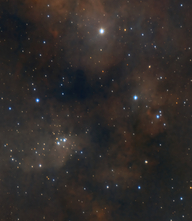
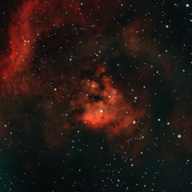
Question Mark

diff --git a/Stories/Astropedia.md b/Stories/Astropedia.md
@@ -55,6 +55,8 @@
 | <img src='..//Stories//Pics/Ghost_Of_Cassiopeia_Nebula.jpg'> |Sh 2-185 is an H II region centered on the massive star system Gamma Cassiopeiae (γ Cas) in the northern constellation of Cassiopeia. It was included in the second Catalogue of H II Regions, published in 1959 by Stewart Sharpless.[3] Sh 2-185 is located at a distance of approximately 10,500 ly (3.23 kpc) from the Sun.[2] The region is surrounded by a dust shell,[4] and displays several infrared point sources that are a characteristics of young stellar objects.[5] This H II region includes the reflection and emission nebulae IC 59 and IC 63.[4] Both nebulae have a cometary shape, with IC 63 being the brighter of the two.[6] The difference in appearance between the two nebulae is a consequence of their physical distance from γ Cas. IC 63 displays a well-defined ionization front, while this is lacking in IC 59.[5] The nebulae are the closest photodissociation regions to the Sun.[6] |
 | [Heart Nebula](..//Stories//Heart_Nebula.md)  |	|
 | <img src='..//Stories//Pics/Heart_Nebula.jpg'> |The Heart Nebula (also known as the Running Dog Nebula, Sharpless 2-190) is an emission nebula, 7500 light years away from Earth and located in the Perseus Arm of the Galaxy in the constellation Cassiopeia. It was discovered by William Herschel on 3 November 1787. It displays glowing ionized hydrogen gas and darker dust lanes. The brightest part of the nebula (a knot at its western edge) is separately classified as NGC 896, because it was the first part of the nebula to be discovered. The nebula's intense red output and its morphology are driven by the radiation emanating from a small group of stars near the nebula's center. This open cluster of stars, known as Collinder 26, Melotte 15, or IC 1805, contains a few bright stars nearly 50 times the mass of the Sun, and many more dim stars that are only a fraction of the Sun's mass. The Heart Nebula is also made up of ionised oxygen and sulfur gasses, responsible for the rich blue and orange colours seen in narrowband images. The shape of the nebula is driven by stellar winds from the hot stars in its core. The nebula also spans almost 2 degrees in the sky, covering an area four times that of the diameter of the full moon. |
+| [Heart Soul Nebula](..//Stories//Heart_Soul_Nebula.md)  |	|
+| <img src='..//Stories//Pics/Heart_Soul_Nebula.jpg'> |This is a composition of two other nebulae [Heart Nebula](./Heart_Nebula.md) and [Soul Nebula](./Soul_Nebula.md)  |
 | [Helix Nebula](..//Stories//Helix_Nebula.md)  |	|
 | <img src='..//Stories//Pics/Helix_Nebula.jpg'> |The Helix Nebula (also known as NGC 7293 or Caldwell 63) is a planetary nebula (PN) located in the constellation Aquarius. Discovered by Karl Ludwig Harding, most likely before 1824, this object is one of the closest of all the bright planetary nebulae to Earth. The distance, measured by the Gaia mission, is 655+-13 light-years. It is similar in appearance to the Cat's Eye Nebula and the Ring Nebula, whose size, age, and physical characteristics are similar to the Dumbbell Nebula, varying only in its relative proximity and the appearance from the equatorial viewing angle. The Helix Nebula has sometimes been referred to as the "Eye of God" in pop culture, as well as the "Eye of Sauron". |
 | [Horse Head Nebula](..//Stories//Horse_Head_Nebula.md)  |	|
@@ -91,6 +93,8 @@
 | <img src='..//Stories//Pics/Pleiades_Cluster.jpg'> |The Pleiades, also known as Seven Sisters and Messier 45, is an asterism of an open star cluster containing young B-type stars in the northwest of the constellation Taurus. At a distance of about 444 light-years, it is among the nearest star clusters to Earth and the nearest Messier object to Earth, being the most obvious star cluster to the naked eye in the night sky. It is also observed to house the reflection nebula NGC 1432, an HII region. The cluster is dominated by hot blue luminous stars that have formed within the last 100 million years. Reflection nebulae around the brightest stars were once thought to be leftover material from their formation, but are now considered likely to be an unrelated dust cloud in the interstellar medium through which the stars are currently passing. This dust cloud is estimated to be moving at a speed of approximately 18 km/s relative to the stars in the cluster. |
 | [Procyon Star](..//Stories//Procyon_Star.md)  |	|
 | <img src='..//Stories//Pics/Procyon_Star.jpg'> |Procyon is the brightest star in the constellation of Canis Minor and usually the eighth-brightest star in the night sky, with an apparent visual magnitude of 0.34. It has the Bayer designation α Canis Minoris, which is Latinized to Alpha Canis Minoris, and abbreviated α CMi or Alpha CMi, respectively. As determined by the European Space Agency Hipparcos astrometry satellite, this system lies at a distance of just 11.46 light-years (3.51 parsecs), and is therefore one of Earth's nearest stellar neighbors. |
+| [Question Mark Nebula](..//Stories//Question_Mark_Nebula.md)  |	|
+| <img src='..//Stories//Pics/Question_Mark_Nebula.jpg'> |NGC 7822, also known as the Question Mark Nebula, is a young star forming complex in the constellation of Cepheus. The complex encompasses the emission region designated Sharpless 171, and the young cluster of stars named Berkeley 59. The complex is believed to be some 800–1000 pc distant,[5][6] with the younger components aged no more than a few million years.[5][6] The complex also includes one of the hottest stars discovered within 1 kpc of the Sun, namely BD+66 1673, which is an eclipsing binary system consisting of an O5V that exhibits a surface temperature of nearly 45,000 K and a luminosity about 100,000 times that of the Sun.[5] The star is one of the primary sources illuminating the nebula and shaping the complex's famed pillars of creation-type formations, the elephant trunks.[5][7][8] |
 | [Regulus Star](..//Stories//Regulus_Star.md)  |	|
 | <img src='..//Stories//Pics/Regulus_Star.jpg'> |Regulus is the brightest object in the constellation Leo and one of the brightest stars in the night sky. It has the Bayer designation designated α Leonis, which is Latinized to Alpha Leonis, and abbreviated Alpha Leo or α Leo. Regulus appears singular, but is actually a quadruple star system composed of four stars that are organized into two pairs. The spectroscopic binary Regulus A consists of a blue-white main-sequence star and its companion, a pre-white dwarf. The system lies approximately 79 light years from the Solar System. HD 87884 is separated from Regulus by 176'' and is itself a close pair. Regulus, along with five slightly dimmer stars (Zeta Leonis, Mu Leonis, Gamma Leonis, Epsilon Leonis, and Eta Leonis) have collectively been called 'the Sickle', which is an asterism that marks the head of Leo. |
 | [Rigel Star](..//Stories//Rigel_Star.md)  |	|

diff --git a/Stories/Question_Mark_Nebula.md b/Stories/Question_Mark_Nebula.md
@@ -1,9 +1,7 @@
 # ![](..//Imaging//Common/pyl-tiny.png) Question Mark Nebula
 ![](..//Imaging//HD/Question_Mark_Nebula+00+co.jpg)
 
-NGC 7822 is a young star forming complex in the constellation of Cepheus. The complex encompasses the emission region designated Sharpless 171, and the young cluster of stars named Berkeley 59. The complex is believed to be some 800–1000 pc distant,[5][6] with the younger components aged no more than a few million years.[5][6] The complex also includes one of the hottest stars discovered within 1 kpc of the Sun, namely BD+66 1673, which is an eclipsing binary system consisting of an O5V that exhibits a surface temperature of nearly 45,000 K and a luminosity about 100,000 times that of the Sun.[5] The star is one of the primary sources illuminating the nebula and shaping the complex's famed pillars of creation-type formations, the elephant trunks.[5][7][8] Also known as the Question Mark Nebula
-
-
+NGC 7822, also known as the Question Mark Nebula, is a young star forming complex in the constellation of Cepheus. The complex encompasses the emission region designated Sharpless 171, and the young cluster of stars named Berkeley 59. The complex is believed to be some 800–1000 pc distant,[5][6] with the younger components aged no more than a few million years.[5][6] The complex also includes one of the hottest stars discovered within 1 kpc of the Sun, namely BD+66 1673, which is an eclipsing binary system consisting of an O5V that exhibits a surface temperature of nearly 45,000 K and a luminosity about 100,000 times that of the Sun.[5] The star is one of the primary sources illuminating the nebula and shaping the complex's famed pillars of creation-type formations, the elephant trunks.[5][7][8]
 
 [![](..//Imaging//Common/Wikipedia.png) Read more](https://en.wikipedia.org/wiki/NGC_7822)
 ## Plate solving 
@@ -14,7 +12,7 @@ NGC 7822 is a young star forming complex in the constellation of Cepheus. The co
 
 | Globe | Close | Very close |
 | ----- | ----- | ----- |
-|![IMG](..//Imaging//HD/Question_Mark_Nebula_Globe.jpg) |![IMG](..//Imaging//HD/Question_Mark_Nebula_Close.jpg) |![IMG](..//Imaging//HD/Question_Mark_Nebula_Closer.jpg) |
+|![IMG](..//Imaging//HD/Question_Mark_Nebula_Globe.jpg) |![IMG](..//Imaging//HD/Question_Mark_Nebula_Close.jpg) 
 
 ## Details
 
@@ -23,3 +21,4 @@ NGC 7822 is a young star forming complex in the constellation of Cepheus. The co
 ![IMG](..//Imaging//HD/Question_Mark_Nebula+00+co.jpg) 
 
 ![](..//Imaging//HD/Question_Mark_Nebula+00+bg.jpg)
+![](..//Imaging//HD/Question_Mark_Nebula+00+bn.jpg)

diff --git a/Stories/Heart_Soul_Nebula.md b/Stories/Heart_Soul_Nebula.md
@@ -1,0 +1,24 @@
+# ![](..//Imaging//Common/pyl-tiny.png) Heart Soul Nebula
+![](..//Imaging//HD/Heart_Soul_Nebula+00+co.jpg)
+
+This is a composition of two other nebulae [Heart Nebula](./Heart_Nebula.md) and [Soul Nebula](./Soul_Nebula.md) 
+
+
+## Plate solving 
+
+
+![IMG](..//Imaging//HD/Heart_Soul_Nebula_Annotated.jpg)
+
+
+| Globe | Close | Very close |
+| ----- | ----- | ----- |
+|![IMG](..//Imaging//HD/Heart_Soul_Nebula_Globe.jpg) |![IMG](..//Imaging//HD/Heart_Soul_Nebula_Close.jpg) 
+
+## Details
+
+
+## Gallery
+![IMG](..//Imaging//HD/Heart_Soul_Nebula+00+co.jpg) 
+
+![](..//Imaging//HD/Heart_Soul_Nebula+00+bg.jpg)
+![](..//Imaging//HD/Heart_Soul_Nebula+00+bn.jpg)
